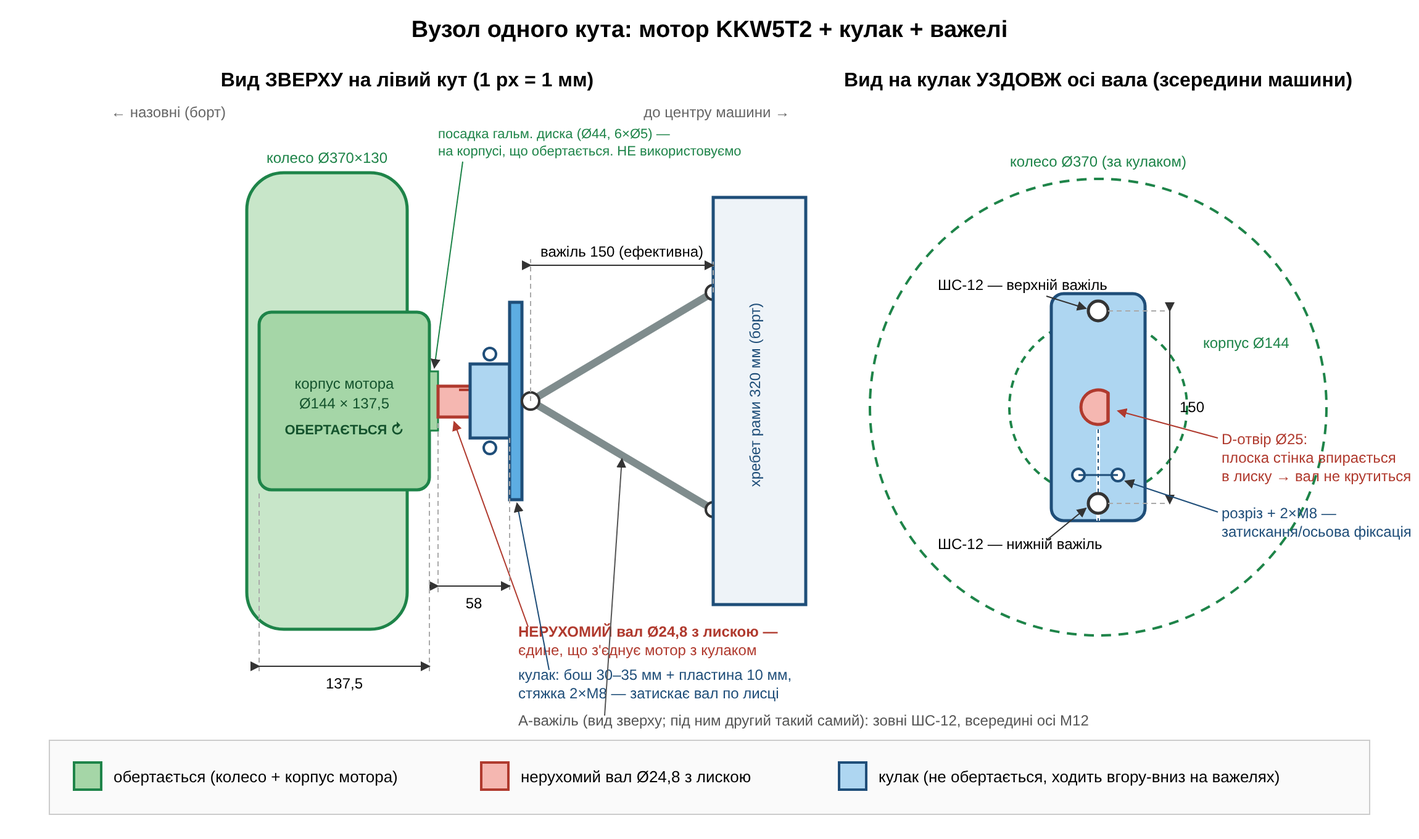
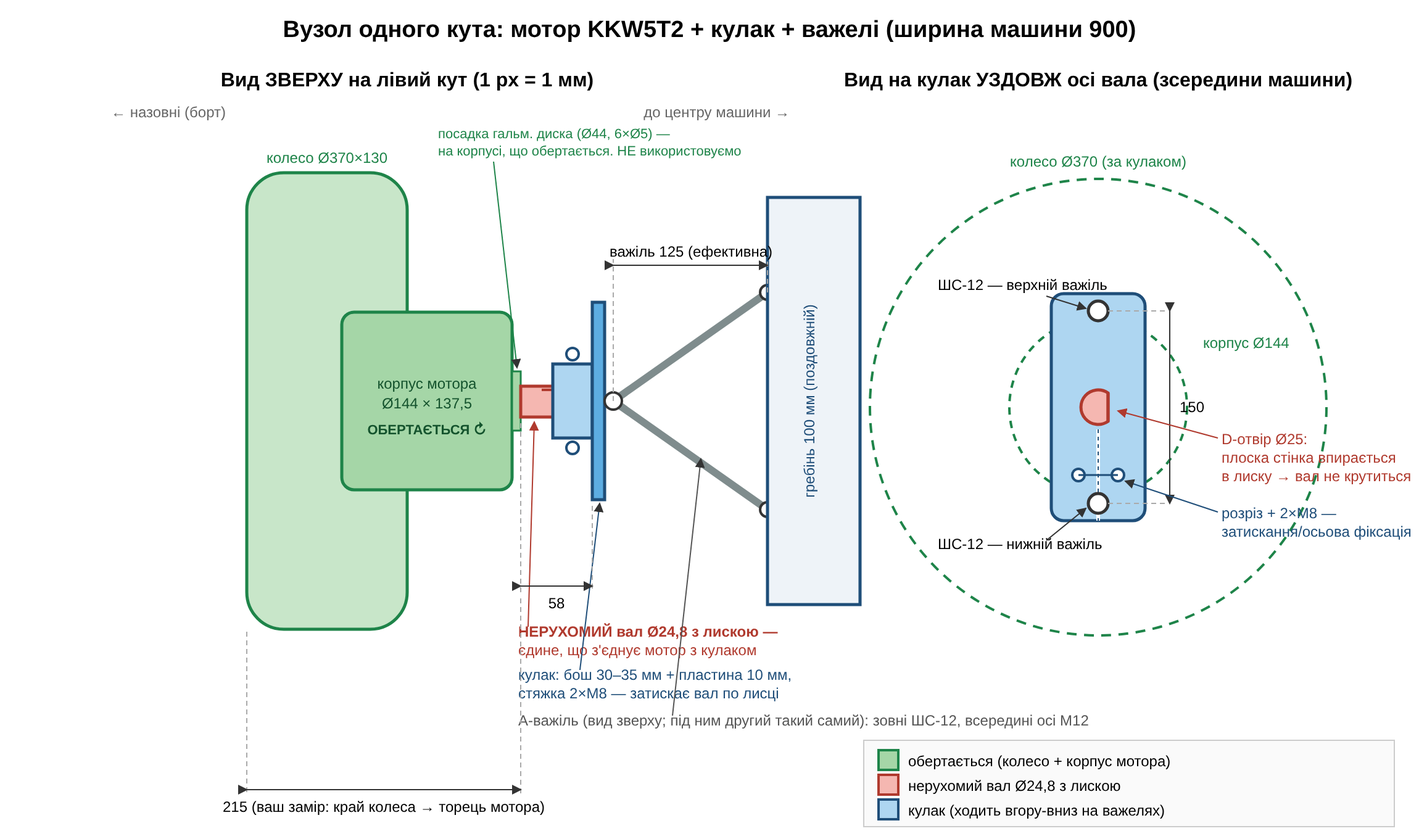
Rework design for agreed 900 mm width and spine layout
Width increased from 750 to 900 mm (track 770) so transverse wishbones
clear the KKW5T2 motor overhang (273 mm per side). Arms shortened to
125 mm effective, shock moved to the lower ball joint area (MR ~0.9,
spring ~18 N/mm, stroke >=90 mm), frame section rewritten as the
owner's spine layout (front spine - central body - rear spine), shaft
bending check updated for the real 215 mm wheel-edge-to-motor-end
measurement, and both diagrams redrawn to match.

Claude-Session: https://claude.ai/code/session_01TCrRwntgyXTFfxYMwJVH5t

diff --git a/docs/ugv-v2-suspension/README.md b/docs/ugv-v2-suspension/README.md
@@ -13,7 +13,7 @@
 | Параметр | Значення | Примітка |
 |---|---|---|
 | Довжина | 1070 мм | можна трохи змінити |
-| Ширина | 750 мм | можна трохи змінити |
+| Ширина | **900 мм** | v1 була 750; розширення погоджено, бо при 750 мм поперечні важелі з моторами KKW5T2 фізично не вміщаються (див. [`layout-options.svg`](layout-options.svg)) |
 | Корисне навантаження | 250 кг | |
 | Мотори | KKW5T2 × 4 | мотор-редуктор у ступиці |
 
@@ -25,6 +25,8 @@
 | Ширина колеса (по ґрунтозачепах) | ≈ 125–130 мм | рулетка по протектору |
 | Колісна база (вісь-вісь) | ≈ 660–680 мм | рулетка через два колеса |
 | Кріплення колеса | 4 шпильки, PCD ≈ 100 мм | збігається з фланцем мотора |
+| Від зовн. краю колеса до торця мотора (посадка гальм. диска) | **215 мм** | фланець колеса стоїть посередині колеса, мотор іде вглиб машини |
+| Від зовн. краю колеса до кінця нерухомого вала | **273 мм** | 215 + вал 58 |
 
 ### 1.3. Мотор KKW5T2 (з креслення)
 
@@ -86,7 +88,8 @@
 - **+** Схема зі зразка; бічні сили (а їх при бортовому розвороті багато) сприймаються важелями «в розтяг/стиск» — найжорсткіший напрямок.
 - **+** Рівні паралельні важелі → розвал не змінюється на всьому ході.
 - **+** Амортизатор виноситься до рами, легко обслуговувати.
-- **−** Потрібен вузький центральний «хребет» рами (бо ширина обмежена 750 мм).
+- **−** З моторами KKW5T2 (виліт 273 мм на борт) потребує ширини ~900 мм:
+  при 750 мм на важіль лишається ~50 мм (див. [`layout-options.svg`](layout-options.svg)).
 - **−** Більше деталей: 8 важелів, 16 шарнірів.
 
 ### Варіант Б — поздовжній важіль (trailing arm)
@@ -95,10 +98,13 @@
 - **−** Бічні сили при бортовому розвороті працюють на скручування важеля і сайлентблоків — потрібна широка база втулок.
 - **−** Переднє колесо «б'є» вперед у перешкоду жорсткіше (вісь гойдання поперечна).
 
-**Рішення:** варіант А, рівні паралельні А-подібні важелі. Оскільки машина
-бортоповоротна і коліс, що повертаються, нема — кулак гранично простий
-(пластина без осі повороту), і головний недолік коротких важелів (зміна
-розвалу) знімається рівними паралельними важелями.
+**Рішення (погоджено):** варіант А, рівні паралельні А-подібні важелі,
+габаритна ширина збільшується до **900 мм**. Компоновка — за ескізом
+замовника: поздовжній гребінь на передній осі, до нього з бортів колеса на
+важелях, далі центральний корпус, ззаду — другий такий самий гребінь.
+Оскільки машина бортоповоротна і коліс, що повертаються, нема — кулак
+гранично простий (пластина-затискач без осі повороту), і головний недолік
+коротких важелів (зміна розвалу) знімається рівними паралельними важелями.
 
 ---
 
@@ -108,23 +114,24 @@
 
 | Параметр | Значення | Коментар |
 |---|---|---|
-| Габаритна ширина | 750 мм | без змін |
-| Колія (центр–центр колеса) | **620 мм** | 750 − 130 |
+| Габаритна ширина | **900 мм** | розширено з 750 |
+| Колія (центр–центр колеса) | **770 мм** | 900 − 130; ширша колія = краща стійкість із вантажем 250 кг |
 | Колісна база | **680 мм** | як v1; можна 700 при подовженні рами |
 | Габаритна довжина | 1070 мм (вантажний настил зверху, повна ширина) | |
-| Центральний хребет рами | **ширина 320 мм**, висота 150–180 мм | між важелями |
+| Зайнято мотором+валом на борт | 273 мм від зовн. краю колеса | кулак стоїть на кінці вала, за 177 мм від поздовжньої осі машини |
+| Гребінь осі (передній і задній) | **ширина 100 мм** | поздовжній короб, до нього кріпляться важелі |
 | Хід підвіски | **100 мм** (50 відбій / 50 стиск у завантаженому стані) | |
-| Кліренс під хребтом (завантажений) | ~200 мм | |
+| Кліренс під гребенем/корпусом (завантажений) | ~200 мм | |
 
 ### 4.2. Важелі
 
 | Параметр | Значення |
 |---|---|
-| Ефективна довжина важеля (вісь гойдання → сферичний шарнір) | **150 мм** |
+| Ефективна довжина важеля (вісь гойдання → сферичний шарнір) | **125 мм** |
 | Верхній важіль = нижній (рівні, паралельні) | так |
 | Вертикальна відстань між кульовими точками кулака | **150 мм** |
-| Кут гойдання при повному ході ±50 мм | ±19,5° |
-| Зміна колії на один борт при повному ході | ≈ 8–9 мм (прийнятно для бортоповоротної) |
+| Кут гойдання при повному ході ±50 мм | ±23,6° |
+| Зміна колії на один борт при повному ході | ≈ 10 мм (прийнятно для бортоповоротної) |
 | Розвал/сходження | 0°, не змінюються (рівні паралельні важелі) |
 
 Матеріал важелів: А-подібні, труба **25×25×2** (або Ø25×2,5) Ст3/09Г2С,
@@ -132,7 +139,9 @@
 
 Шарніри:
 - Зовнішні (до кулака): сферичні шарніри **M12** (рід-енди / ШС-12), 8 шт.
-- Внутрішні (до рами): болт M12 + поліуретанові втулки або теж ШС, 16 точок.
+- Внутрішні (до гребеня): болт M12 + поліуретанові втулки або теж ШС, 16 точок.
+- Осі всіх болтів шарнірів — **уздовж машини**: тоді хитання важеля ±23,6° —
+  це вільне обертання навколо болта, а не викручування кульки на перекос.
 
 ### 4.3. Кулак (upright) — затискач нерухомого вала Ø24,8
 
@@ -154,12 +163,15 @@
 
 ### 4.4. Амортизатор
 
-Нижнє кріплення — на нижньому важелі в **100 мм** від осі гойдання, верхнє — на
-стійці хребта рами; нахил від вертикалі ~20–25°.
+Важіль короткий (125 мм), тому нижнє кріплення амортизатора — на нижньому
+важелі **впритул до кульового шарніра** (це також розвантажує важіль від
+згину пружиною); верхнє — на стійці гребеня; нахил від вертикалі ~20°.
+Амортизатор проходить повз верхній важіль — змістити його вперед/назад
+відносно площини важеля на 30–40 мм.
 
-- Передавальне число (motion ratio) ≈ **0,6**
-- Хід штока: ≥ 100 × 0,6 = **60 мм** (брати 65–75 мм)
-- Монтажна довжина «вухо-вухо» ≈ **300–330 мм** (підібрати під фактичну висоту стійки)
+- Передавальне число (motion ratio) ≈ **0,9**
+- Хід штока: ≥ 100 × 0,9 = **90 мм** (брати 90–110 мм)
+- Монтажна довжина «вухо-вухо» ≈ **360–400 мм** (підібрати під фактичну висоту стійки)
 
 ---
 
@@ -171,14 +183,17 @@
 | Крок | Формула | Результат |
 |---|---|---|
 | Жорсткість на колесі | k = m·(2πf)² = 75 кг × (2π·2,2)² | **≈ 14,5 Н/мм** |
-| Жорсткість пружини | k / MR² = 14,5 / 0,6² | **≈ 40 Н/мм (≈ 230 lb/in)** |
+| Жорсткість пружини | k / MR² = 14,5 / 0,9² | **≈ 18 Н/мм (≈ 105 lb/in)** |
 | Статичний прогин, завантажений | 740 Н / 14,5 | ≈ 50 мм (= весь хід відбою → виставити переднатягом) |
 | Статичний прогин, порожній | 130 Н / 14,5 | ≈ 9 мм |
-| Сила на амортизаторі, статика завантажений | 740 / 0,6 | ≈ 1,25 кН |
-| Сила на амортизаторі, удар 3g | | ≈ 3,7 кН — перевірити кронштейни |
+| Сила на амортизаторі, статика завантажений | 740 / 0,9 | ≈ 0,82 кН |
+| Сила на амортизаторі, удар 3g | | ≈ 2,5 кН — перевірити кронштейни |
 
-**Готове рішення:** 4 койловери від ATV/квадроцикла, довжина ~310–330 мм,
-хід 65–75 мм, пружина 38–42 Н/мм (220–240 lb/in), з регулюванням переднатягу.
+**Готове рішення:** 4 койловери від ATV/квадроцикла, довжина ~360–400 мм,
+хід 90–110 мм, пружина 17–20 Н/мм (95–115 lb/in), з регулюванням переднатягу.
+Якщо доступні лише жорсткіші пружини (типово для ATV 150+ lb/in) — брати
+койловер коротший ходом і ставити далі від кульової (менший MR), перерахувавши
+MR² під наявну пружину.
 
 **Проблема «порожній/завантажений»:** з пружиною під повну масу порожня машина
 стоятиме майже на відбої (прогин ~9 мм) і їхатиме жорстко (~5 Гц). Варіанти:
@@ -194,8 +209,8 @@
 |---|---|---|
 | Тяга на колесі | 200 Н·м / 0,185 м = 1,08 кН; разом 4,3 кН | > ваги 3,6 кН → обмежена зчепленням, не моментом. Підйоми 30°+ по зчепленню |
 | Бічна сила при розвороті (μ≈0,8) | ~0,73 кН на пляму контакту | Пара на шарнірах кулака: 0,73×185/150 ≈ 0,9 кН — ШС-12 (статична ≥ 20 кН) із великим запасом |
-| Удар 3g на кут | 2,7 кН на колесі | Важіль 25×25×2 на стиск/вигин — запас > 3; пружина через важіль ~4,5 кН на вузол кріплення → косинки на кронштейнах обов'язково |
-| Вигин вала Ø24,8 (консоль) | удар 2,7 кН на плечі ~90 мм (затискач → площина колеса) → M ≈ 240 Н·м; W = πd³/32 ≈ 1,5 см³ → σ ≈ 160 МПа | Прийнятно для загартованого вала, але запас на втому помірний → затискати вал якомога довше (30–35 мм) і якомога ближче до корпусу мотора |
+| Удар 3g на кут | 2,7 кН на колесі | Важіль 25×25×2 на стиск/вигин — запас > 3; на стійку амортизатора приходить ~3 кН → косинки на кронштейнах обов'язково |
+| Вигин вала Ø24,8 (консоль) | площина колеса за ~180 мм від затискача (фланець посередині колеса!) → при ударі 2,7 кН M ≈ 480 Н·м; W = πd³/32 ≈ 1,5 см³ → σ ≈ 320 МПа | Запас малий — це вузьке місце самого мотора (v1 живе з тією ж консоллю, а підвіска удари ще й зменшить). Обов'язково: затискати вал усіма 30–35 мм, впритул до корпусу мотора, без проставок |
 | Тиск на лиску вала | 200 Н·м / ~11 мм ≈ 18 кН на площину лиски | З довжиною затиснення 30–35 мм — у нормі; одна пластина 10 мм дає ~3× більший тиск і розіб'є посадку → тільки бош/пакет пластин (§4.3) |
 | Швидкість | мотор ~100–150 об/хв × πD 1,16 м | ≈ 7–10 км/год — уточнити по ВАХ мотора |
 
@@ -203,11 +218,21 @@
 
 ## 7. Зміни рами v1 → v2
 
-1. Нижня частина рами звужується до **центрального хребта 320 мм** (дві поздовжні балки 40×40×2 або 40×60×2 + поперечки) — до нього кріпляться важелі.
-2. Вантажний настил повної ширини 750×1070 мм монтується зверху хребта, над колесами (як на зразку).
-3. На хребті, у 4 кутах — **стійки амортизаторів** з косинками (вузол тримає до ~4 кН).
-4. Кронштейни важелів: по 2 вуха (пластина 5–6 мм) на кожен важіль, болти M12.
-5. АКБ та електроніку — всередину хребта, якнайнижче (центр мас ↓, стійкість ↑).
+Компоновка за ескізом замовника: **передній гребінь → центральний корпус →
+задній гребінь**.
+
+1. **Гребінь осі** (×2, спереду і ззаду): поздовжній короб **шириною 100 мм**
+   (два профілі 50×50×3 зварені разом, або короб 100×160×3), довжина
+   ~400 мм уздовж машини. На його бортах — кронштейни важелів (по 2 вуха
+   на важіль, пластина 5–6 мм, база 180 мм, болти M12), зверху — стійка
+   амортизатора з косинками (вузол тримає до ~3 кН).
+2. **Центральний корпус** між гребенями: несучий короб шириною до ~600 мм
+   (між внутрішніми краями коліс із запасом), жорстко зварений/болтований
+   з обома гребенями. АКБ та електроніка — всередину, якнайнижче
+   (центр мас ↓, стійкість ↑).
+3. **Вантажний настил** 900×1070 мм — зверху, над колесами (як на зразку).
+4. Перевірити жорсткість стику «гребінь–корпус» на кручення: весь момент
+   від підвіски заходить у раму саме там → косинки/розкоси обов'язково.
 
 ---
 
@@ -215,9 +240,9 @@
 
 | Поз. | Найменування | К-сть | Примітка |
 |---|---|---|---|
-| 1 | Койловер ATV 310–330 мм, хід ≥65 мм, пружина ~40 Н/мм | 4 | з регулюванням переднатягу |
-| 2 | Важіль А-подібний верхній (труба 25×25×2) | 4 | ефективна довжина 150 мм |
-| 3 | Важіль А-подібний нижній (труба 25×25×2, з вухом амортизатора) | 4 | |
+| 1 | Койловер ATV 360–400 мм, хід 90–110 мм, пружина 17–20 Н/мм | 4 | з регулюванням переднатягу |
+| 2 | Важіль А-подібний верхній (труба 25×25×2) | 4 | ефективна довжина 125 мм |
+| 3 | Важіль А-подібний нижній (труба 25×25×2, з вухом амортизатора біля кульової) | 4 | |
 | 4 | Сферичний шарнір ШС-12 / rod-end M12 | 8–24 | 8 зовнішніх обов'язково; внутрішні — ШС або поліуретан |
 | 5 | Кулак — пластина 10 мм + бош 20–25 мм, D-отвір Ø25 під лиску вала | 4 | затиснення вала 30–35 мм |
 | 6 | Кронштейни важелів (пластина 5–6 мм) | 16 | |
@@ -233,7 +258,9 @@
 
 ![Вузол одного кута: мотор + кулак + важелі](corner-module.svg)
 
-Файли: [`front-view.svg`](front-view.svg), [`corner-module.svg`](corner-module.svg)
+![Чому ширина 900, а не 750](layout-options.svg)
+
+Файли: [`front-view.svg`](front-view.svg), [`corner-module.svg`](corner-module.svg), [`layout-options.svg`](layout-options.svg)
 
 ---
 
